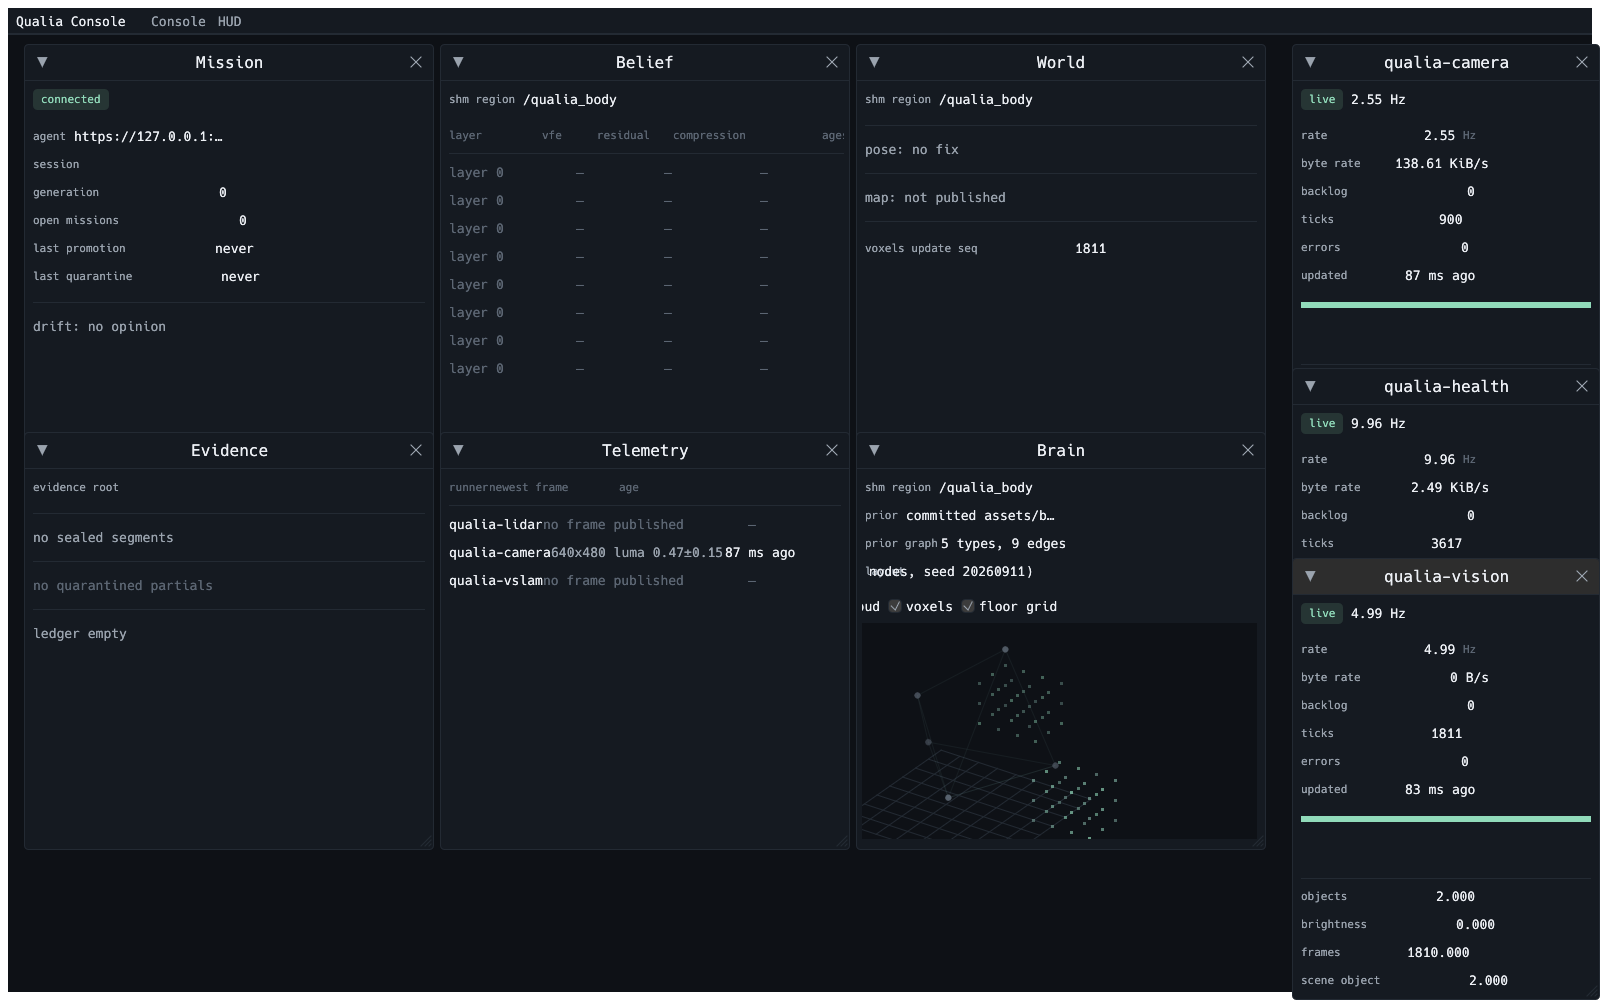
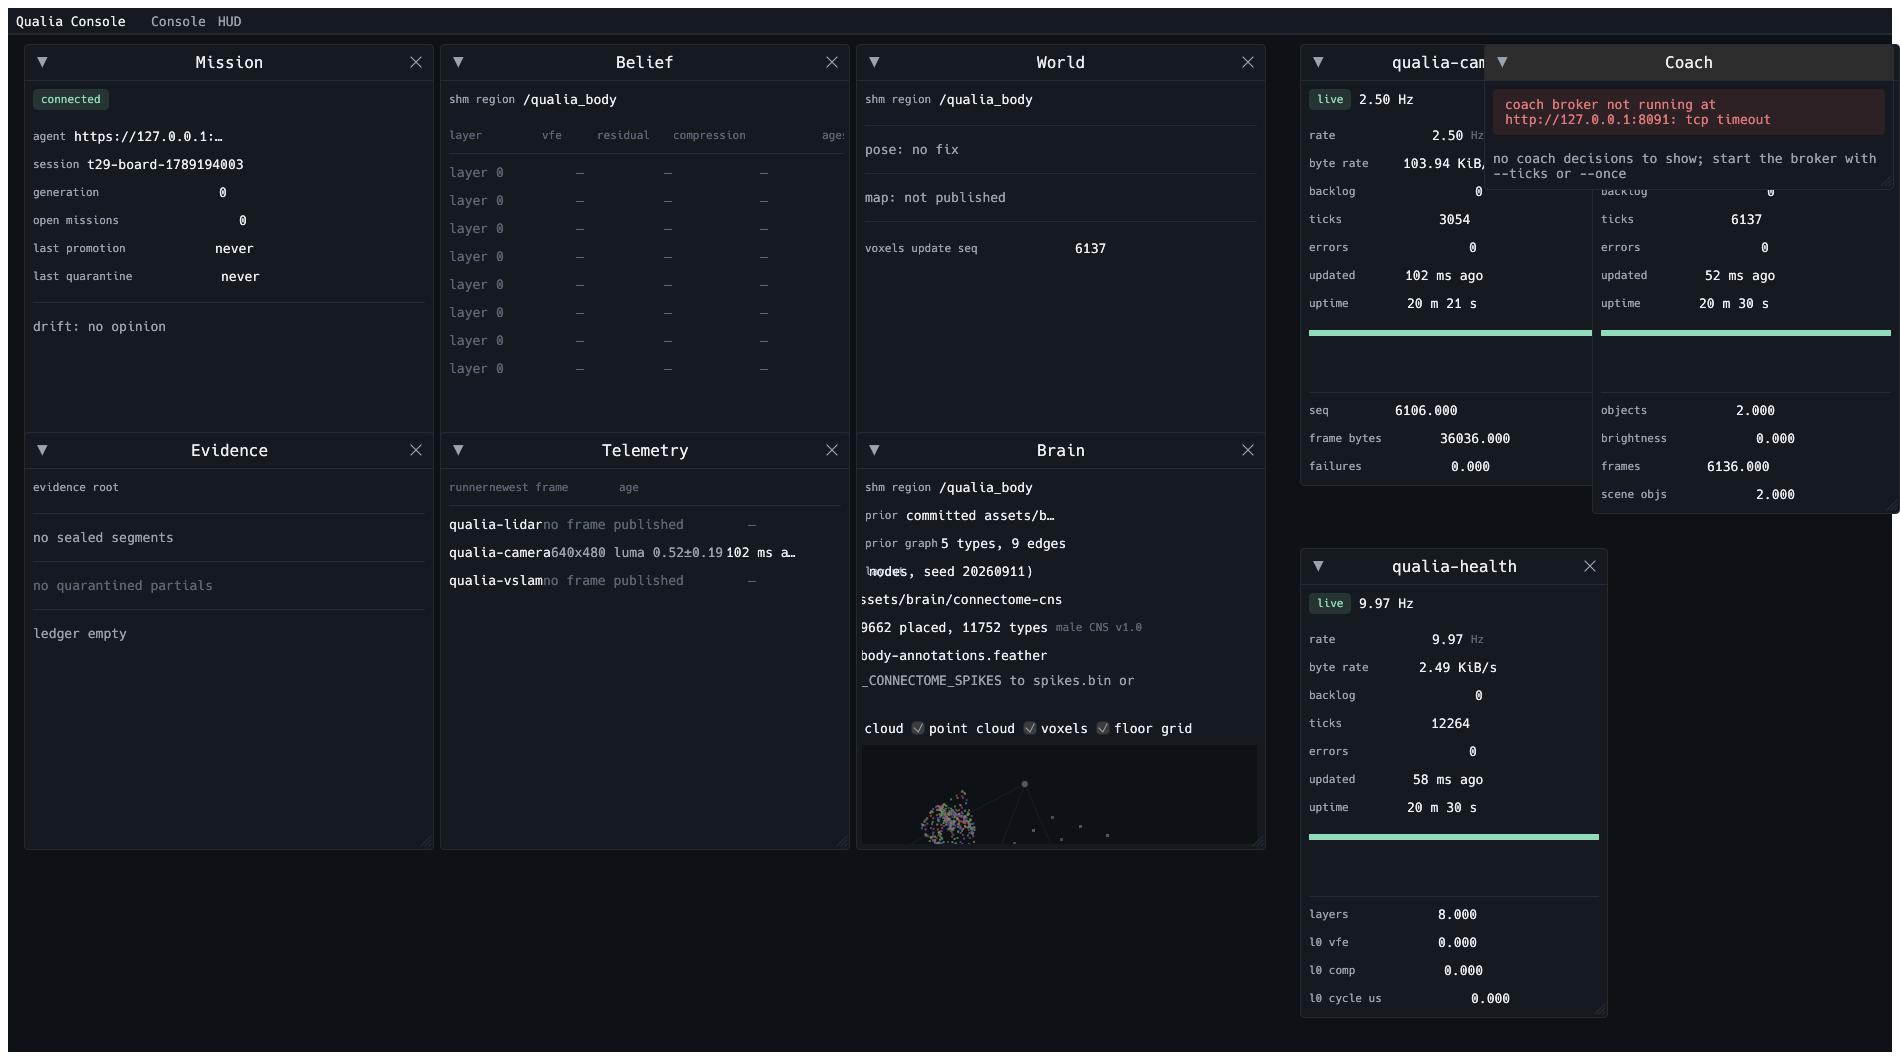
T64: settle the rebase — re-render the figure on main's tree (D-026)
Rebased onto main 4f2a8ab. Two files conflicted, neither of them sided by hand:

- apps/qualia-console/examples/live_hud_evidence.rs: kept this branch's rewrite
  and re-added main's four-line `coach:` field in `Sample`, so the example still
  reads the broker's surface. That is the only content conflict outside the PNGs.
- The seven committed apps/qualia-console/tests/snapshots/*.png: took main's
  bytes as the starting point, then re-rendered all seven on the rebased tree
  (`UPDATE_SNAPSHOTS=1 cargo test -p qualia-console --test snapshots -j 2`, rc 0,
  7/7) after first moving the PNGs out of the directory, so the write is provable
  rather than assumed. The render recreated all seven byte for byte identical to
  main's blobs (1c8bec68, 807f2714, fa72d545, d10d546f, c4be5a6d, 737a3f25,
  02e9c706): this tree changes no snapshot.

  Nothing this branch drew is lost — main's images already carry it. 086017e ->
  539d188 is still exactly 152 px in the one 23x11 box at (218,16)-(240,26), the
  HUD menu button, and 086017e -> main's bbox starts at that same box.

  Siding with 539d188's binaries would have reverted main's render, per image:
  belief_stale 73,967 px, brain_fresh 132,009, default_arrangement 109,475,
  evidence_empty 73,942, mission_degraded 73,962, mission_healthy 73,962,
  world_fresh 23,657 — all of T56's brain re-render plus main's theme. The differing
  boxes run (25..857, 44) to (1273, 189..813).
[…]

diff --git a/apps/qualia-console/examples/live_hud_evidence.rs b/apps/qualia-console/examples/live_hud_evidence.rs
@@ -8,8 +8,9 @@
 //! does). Nothing here is a fixture: if the agent or a producer is down, the
 //! frame shows the degraded reading it would show in the window.
 //!
-//! The figure is written where `egui_kittest` keeps this crate's snapshots;
-//! copy it into `docs/evidence/` after the run.
+//! The figure is written where `egui_kittest` keeps this crate's snapshots
+//! (`<workspace>/tests/snapshots/`, scratch and not committed); copy it into
+//! `docs/evidence/` after the run.
 //!
 //! Run from the workspace root, with the stack up:
 //!
@@ -23,16 +24,22 @@ use qualia_console::client::{agent_url, HttpSource};
 use qualia_console::views::evidence::EvidenceView;
 use qualia_console::{shm_sample, stack, theme, Connection, ConsoleState, Sample};
 
-/// The figure's viewport: wide enough for the six-view grid plus a column of
-/// HUD panels on the right, and tall enough for three panels whose rows all
-/// fit — the numbers, the bar and sparkline, and the four labelled values.
-const VIEWPORT: [f32; 2] = [1600.0, 1200.0];
+/// The figure's viewport: the six-view grid, plus a two-column margin on the
+/// right wide and tall enough for every live panel's rows — the numbers, the
+/// rate bar, and the four labelled values. A single tall column would need a
+/// 1500 px page for the three producers this stack runs, which reads worse
+/// than two columns the operator could keep.
+const VIEWPORT: [f32; 2] = [1900.0, 1060.0];
 
-/// Where the HUD panels are placed for the figure: a column in the right
+/// Where the HUD panels are placed for the figure: two columns in the right
 /// margin, so nothing covers the six views. In the window these are the rects
 /// the operator drags; here they are seeded through the same `record_rect` the
 /// window uses, so the layout that is drawn is a layout the console can keep.
-const PANEL_COLUMN: [f32; 4] = [1300.0, 44.0, 290.0, 360.0];
+/// A panel auto-sizes to its own content, so the height here is the starting
+/// size and what the next row is offset by.
+const PANEL_COLUMNS: [[f32; 2]; 2] = [[1300.0, 44.0], [1610.0, 44.0]];
+const PANEL_ROWS: usize = 2;
+const PANEL_SIZE: [f32; 2] = [290.0, 480.0];
 
 fn main() {
     let region = shm_sample::region_name();
@@ -77,15 +84,19 @@ fn main() {
     };
 
     let mut state = ConsoleState::from_sample(sample, url);
-    // Place a panel per live runner down the right margin, through the same
-    // recorded-rect path the window's drag uses.
+    // Place a panel per live runner in the right margin, through the same
+    // recorded-rect path the window's drag uses: down the first column, then
+    // the second.
     for (index, row) in state.hud.rows.iter().enumerate() {
+        let column = (index / PANEL_ROWS).min(PANEL_COLUMNS.len() - 1);
+        let row_index = index % PANEL_ROWS;
+        let origin = PANEL_COLUMNS[column];
         let rect = egui::Rect::from_min_size(
             egui::pos2(
-                PANEL_COLUMN[0],
-                PANEL_COLUMN[1] + index as f32 * (PANEL_COLUMN[3] + 24.0),
+                origin[0],
+                origin[1] + row_index as f32 * (PANEL_SIZE[1] + 24.0),
             ),
-            egui::vec2(PANEL_COLUMN[2], PANEL_COLUMN[3]),
+            egui::vec2(PANEL_SIZE[0], PANEL_SIZE[1]),
         );
         state.hud_layout.record_rect(&row.runner, rect);
     }

diff --git a/docs/evidence/T60/live-hud/README.md b/docs/evidence/T60/live-hud/README.md
@@ -125,22 +125,106 @@ agent answered — re-run it with the token read from its file before concluding
 - **`live-hud-live.png` — the figure, rendered headlessly.** No window on any desktop:
   `cargo run -p qualia-console --example live_hud_evidence` samples the live region and the live
   agent through the console's own read paths and draws the real `render_view` through
-  `egui_kittest`'s wgpu backend. It printed:
+  `egui_kittest`'s wgpu backend. Re-rendered for #247 (T64) at 1900x1060 with the three panels in a
+  **two-column** right margin (a single column needed a 1500 px page before every row fit).
+
+  The committed image is the re-render on the **rebased** tree (2026-09-12 02:28 local; branch
+  rebased onto `main` `4f2a8ab`, D-026 below) — 90,569 px differ from the 02:11 render, bbox
+  (87, 45)–(1898, 843), because the 02:11 figure was drawn before main's T56 brain view and theme
+  landed and so showed a Brain view main had already replaced. It printed:
 
   ```text
-  live_hud_evidence: region /qualia_body, 3 live runner panel(s): qualia-camera 2.55 Hz, qualia-health 9.96 Hz, qualia-vision 4.99 Hz
-  live_hud_evidence: no producer: qualia-l0-superposition, … qualia-l6-semantic, qualia-agent, qualia-lidar, qualia-vslam
-  Updated snapshot: live_hud_evidence.png
+  live_hud_evidence: region /qualia_body, 3 live runner panel(s)
+    qualia-camera | 2.50 Hz | publishing | updated 102 ms ago | uptime 20 m 21 s | seq 6106.000, frame bytes 36036.000, failures 0.000
+    qualia-health | 9.97 Hz | publishing | updated 58 ms ago | uptime 20 m 30 s | layers 8.000, l0 vfe 0.000, l0 comp 0.000, l0 cycle us 0.000
+    qualia-vision | 4.99 Hz | publishing | updated 52 ms ago | uptime 20 m 30 s | objects 2.000, brightness 0.000, frames 6136.000, scene objs 2.000
+  live_hud_evidence: no producer: qualia-l0-superposition, qualia-l1-belief, qualia-l2-belief, qualia-l3-belief, qualia-l4-behavior, qualia-l5-behavior, qualia-l6-semantic, qualia-agent, qualia-lidar, qualia-vslam
+  Updated snapshot: tests/snapshots\live_hud_evidence.png
   ```
 
   The figure shows Mission live against `https://127.0.0.1:8080`, the region panels (Belief, World,
-  Telemetry, Brain) reading `/qualia_body`, and the three HUD panels with those real rates.
+  Telemetry, Brain) reading `/qualia_body`, and the three HUD panels with those real rates, the
+  `uptime` each runner's own `started_at_ns` gives, and every row — including all four labelled
+  values — inside its panel.
 
-- **`live-hud.png` — historical.** The windowed capture from earlier in the session (private
-  `/qualia_t60_body` region, before the no-visible-window directive). Kept only as the record of the
-  windowed surface: `qualia-camera` live 2.61 Hz / 121.49 KiB/s / 343 ticks / 0 errors,
-  `qualia-vision` live 4.99 Hz / 715 ticks / 0 errors / objects 2 / frames 714, and the Telemetry row
-  `qualia-camera | 640x480 luma 0.46±0.16 | 323 ms ago` — a real frame.
+- **`live-hud.png` — the pre-#247 capture of the windowed surface.** The windowed capture from
+  earlier in the session (private `/qualia_t60_body` region, before the no-visible-window directive),
+  kept as the record of the windowed surface: `qualia-camera` live 2.61 Hz / 121.49 KiB/s / 343 ticks
+  / 0 errors, `qualia-vision` live 4.99 Hz / 715 ticks / 0 errors / objects 2 / frames 714, and the
+  Telemetry row `qualia-camera | 640x480 luma 0.46±0.16 | 323 ms ago` — a real frame.
+
+  It is the **before** half of #247's label fix: it was drawn by the build whose vision panel reads
+  `scene object` (the wire field cut `scene objects` at 12 bytes) and whose health panel, clipped at
+  300 px, never reached `l0 compressi`. Both are fixed and re-rendered in `live-hud-live.png`; D-023
+  forbids opening a window, so this capture cannot be re-shot and is left as the dated record rather
+  than passed off as current.
+
+## #247 (T64) — the four honesty fixes, and how each was checked
+
+Ticket [#247](https://github.com/superposition/qualia/issues/247), from the #245 correctness review.
+Branch `ticket/T64-hud-defects`; the four fixes are commit `13c86cf`, and this figure and section ride
+with the same branch. The `/qualia_body` producers were restarted
+from that build so the live frames carry the fixes: the old PIDs were killed in one pass
+(`taskkill /F /PID 18488 /PID 11028 /PID 27440 /PID 14484` — T60's supervisor and its health/vision
+children, plus the hand-started camera), leaving one publisher per runner, and
+`target/debug/qualia-init.exe` from the T64 worktree then created the arena and spawned health and
+vision while `target/debug/qualia-camera.exe` took
+`QUALIA_CAMERA_STREAM_URL=http://192.168.55.1:8000/camera/stream.mjpg`. The agent on 8080 was left
+running: it is the console's `/braid`, not a producer.
+
+| defect | before | after | where it is visible |
+|---|---|---|---|
+| `started_at_ns` never written | every frame carried 0; no panel could show a start | `StatsWriter::from_region` stamps its attach instant; the panel reads `uptime` | the live rows above: `uptime 2 m 06 s`, `2 m 15 s` |
+| `PUBLISHING` never cleared | `hud.rs:328`'s `!row.publishing` branch was dead; a stopped runner kept its last state | `impl Drop for StatsWriter` clears the flag and stamps the frame, so the panel reads `stopped`; a runner that is killed cannot run `Drop` and still ages out to `stale` | the probe below: `0x0001` -> `0x0000` |
+| 12-byte labels cut mid-word | `l0 compressi`, `scene object`, and lidar's `buffered poi` | the field stays 12 bytes — it is ABI under `RUNNER_STATS_VERSION` — and the three names move: `l0 comp`, `scene objs`, `buffered pts` | the live rows above |
+| README claimed "the last two minutes" | `HISTORY_LEN` is 120 samples and `POLL_INTERVAL` is 250 ms (`poller.rs:19`), so the window is 30 s | the README says the last half-minute, the same figure the constant's own doc names | `apps/qualia-console/README.md` |
+
+The flag clearing is the one claim a reader cannot check against a running stack, since it needs a
+writer to be dropped; it was measured with a throwaway example that attached to its own region,
+published once, and dropped the writer. The example was deleted after the run:
+
+```text
+$ cargo run -p qualia-console --example stop_probe
+probe: publishing flags=0x0001 publishing=true label0="l0 comp"
+probe: dropped   flags=0x0000 publishing=false label0="l0 comp" stamped_at_ns=1789193475679664200
+```
+
+The console's `StatsRow.publishing` is exactly that flag, so the second line is the panel's `stopped`
+state; the `label0` round-trip is the third fix — `l0 comp` is what comes back out of the 12-byte
+field.
+
+**The seven committed snapshots were re-blessed.** `cargo test -p qualia-console -j 2` failed 7/7
+before this ticket's first commit, by exactly 152 px in the same 23x11 box at (218, 16) — the `HUD`
+menu button that T60 added to `theme::menu_strip` (`cc9eb6e`, 2026-09-12) while the snapshots were
+last blessed by T51 (`a65f94f`, 2026-09-11). Every diff was measured to be that button and nothing
+else, so `UPDATE_SNAPSHOTS=1 cargo test -p qualia-console -j 2` was run once (rc 0), and the suite
+then passed without it (rc 0, 7/7 snapshots, no stray `*.new.png`).
+
+**On the tree rebased onto `main` the seven images are `main`'s, and that is measured, not sided.**
+Rebased onto `main` `4f2a8ab` the branch conflicted on the same seven PNGs (and on
+`examples/live_hud_evidence.rs`, where `main`'s four-line `coach:` field in `Sample` was re-added to
+the branch's rewrite). `main`'s bytes were taken as the starting point, then all seven were
+**re-rendered on the rebased tree** — `UPDATE_SNAPSHOTS=1 cargo test -p qualia-console --test
+snapshots -j 2` (rc 0, 7/7) — and the write was made provable rather than assumed by first moving the
+seven PNGs out of `tests/snapshots/` and re-running: the render recreated all seven, byte for byte
+identical to `main`'s blobs (`1c8bec68`, `807f2714`, `fa72d545`, `d10d546f`, `c4be5a6d`, `737a3f25`,
+`02e9c706`).
+
+That is the point D-026 names: siding with `539d188`'s binaries would have reverted main's render.
+Measured against `main`'s committed images, the branch's seven differed by `belief_stale` 73,967 px
+(bbox 441,44–1273,189), `brain_fresh` 132,009 px (857,44–1273,813), `default_arrangement` 109,475 px
+(857,44–1273,813), `evidence_empty` 73,942 px (25,44–1273,437), `mission_degraded` 73,962 px
+(25,44–1273,189), `mission_healthy` 73,962 px (25,44–1273,189) and `world_fresh` 23,657 px
+(857,44–1273,189) — all of T56's brain re-render plus main's theme. And nothing the branch drew is
+lost: `086017e` → `539d188` is still exactly 152 px in the one 23x11 box at (218, 16)–(240, 26), the
+`HUD` menu button, which `main`'s images already carry (the `086017e` → `main` bbox starts at that
+same box). The rebased tree changes no snapshot at all; the suite is green there without
+`UPDATE_SNAPSHOTS` (rc 0, 35 tests: lib 16, `brain_frame` 1, `brain_sample` 1, `evidence` 2,
+`shm_views` 5, `snapshots` 7, `stack` 3), and a second run left every blob unchanged.
+
+Nothing else changed: the frame layout, `RUNNER_STATS_VERSION`, `RUNNER_STATS_SLOTS` and the region
+name are untouched, and the three renamed labels are display names their publishers choose, not a
+wire change.
 
 ## What is live, and what is a gap
 
